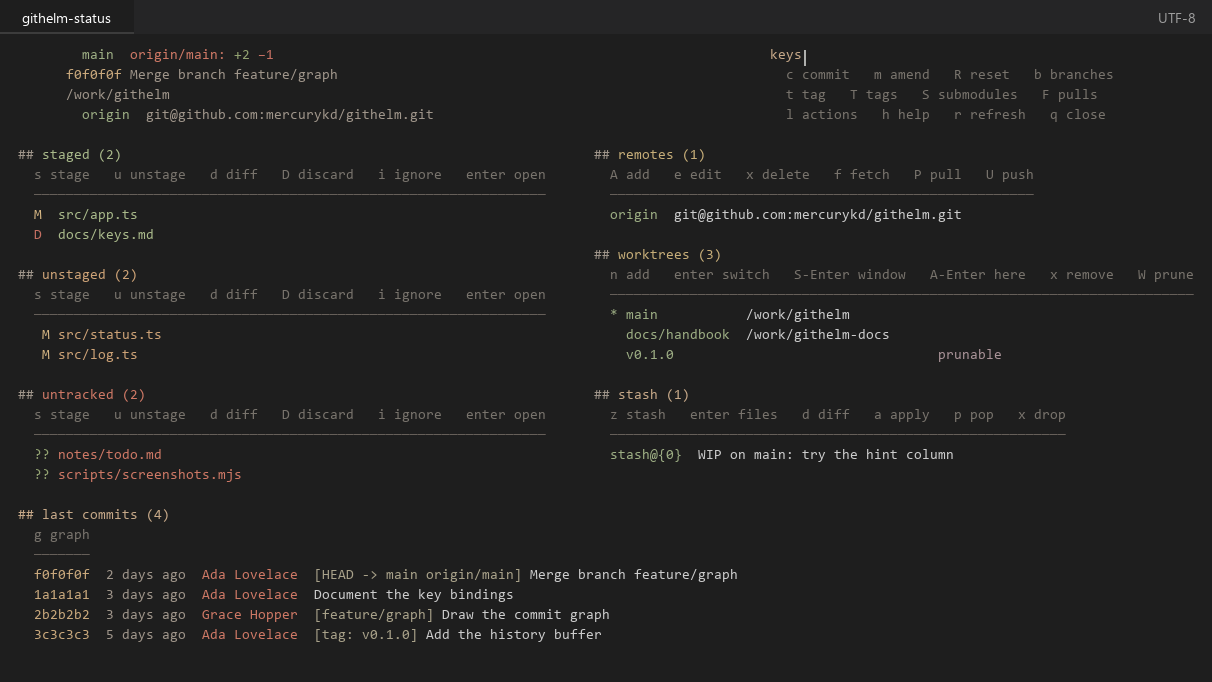
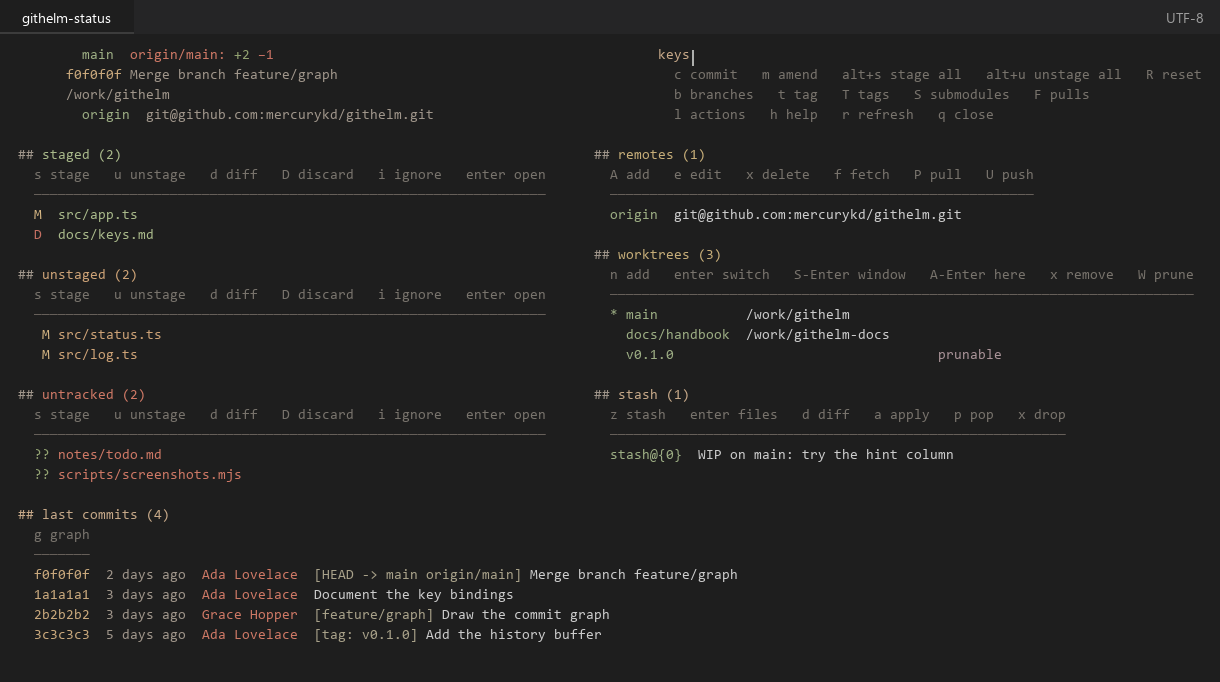
feat: add stage all and unstage all functionality with keyboard shortcuts

diff --git a/src/extension.ts b/src/extension.ts
@@ -29,7 +29,7 @@ import {
 import type { ResetMode } from './git/ops';
 import { findRepoRoot, initRepository } from './git/repo';
 import { amendCommit, createFixupCommit, hasStagedChanges, headMessage, parentOf } from './git/rewrite';
-import { addIntentToAdd, PatchApplyError, stageFiles, unstageFiles } from './git/stage';
+import { addIntentToAdd, PatchApplyError, stageAll, stageFiles, unstageAll, unstageFiles } from './git/stage';
 import { applyStash, dropStash, planStash, popStash, pushStash, showStash, stashFileDiff, StashOptions } from './git/stash';
 import { entriesOf, readStatus } from './git/status';
 import { createTag, deleteRemoteTag, deleteTag, moveTag, pushTag, remoteTag } from './git/tags';
@@ -613,6 +613,56 @@ export function activate(context: vscode.ExtensionContext): void {
     await unstageFiles(state.repoPath, paths);
     await statusBuffer.refresh(editor.document.uri, editor.selection.active.line);
     notify(t('msg.unstagedCount', { count: paths.length }));
+  });
+
+  // `alt+s` and `alt+u` are the same two operations for the whole screen, without
+  // caring where the cursor is: the pair `s`/`u` next to them stays per file.
+  register('githelm.status.stageAll', async () => {
+    const editor = statusEditor();
+    if (!editor) {
+      return;
+    }
+    const state = statusBuffer.stateFor(editor.document.uri);
+    if (!state) {
+      return;
+    }
+    const pending = state.status.entries.filter((entry) => entry.section !== 'staged');
+    if (pending.length === 0) {
+      notify(t('msg.alreadyStaged'));
+      return;
+    }
+    if (pending.some((entry) => entry.section === 'conflict')) {
+      const confirmed = await vscode.window.showWarningMessage(
+        t('msg.conflictStage'),
+        { modal: true },
+        t('action.stage')
+      );
+      if (confirmed !== t('action.stage')) {
+        return;
+      }
+    }
+    await stageAll(state.repoPath);
+    await statusBuffer.refresh(editor.document.uri, editor.selection.active.line);
+    notify(t('msg.stagedCount', { count: pending.length }));
+  });
+
+  register('githelm.status.unstageAll', async () => {
+    const editor = statusEditor();
+    if (!editor) {
+      return;
+    }
+    const state = statusBuffer.stateFor(editor.document.uri);
+    if (!state) {
+      return;
+    }
+    const staged = entriesOf(state.status, 'staged');
+    if (staged.length === 0) {
+      notify(t('msg.nothingToUnstage'));
+      return;
+    }
+    await unstageAll(state.repoPath);
+    await statusBuffer.refresh(editor.document.uri, editor.selection.active.line);
+    notify(t('msg.unstagedCount', { count: staged.length }));
   });
 
   register('githelm.status.ignore', async () => {

diff --git a/test/stage.test.ts b/test/stage.test.ts
@@ -1,9 +1,11 @@
 import assert from 'node:assert/strict';
+import fs from 'node:fs';
+import path from 'node:path';
 import { afterEach, describe, it } from 'node:test';
 import { diffArgs, parseDiff } from '../src/git/diff';
 import { git } from '../src/git/exec';
 import { buildPatch } from '../src/git/patch';
-import { addIntentToAdd, applyPatchToIndex, stageFile, stageFiles, unstageFile, unstageFiles } from '../src/git/stage';
+import { addIntentToAdd, applyPatchToIndex, stageAll, stageFile, stageFiles, unstageAll, unstageFile, unstageFiles } from '../src/git/stage';
 import { createTempRepo, TempRepo } from './helpers/tempRepo';
 
 let repo: TempRepo | undefined;
@@ -186,5 +188,47 @@ describe('stash quick peek', () => {
     } finally {
       repo.dispose();
     }
+  });
+});
+
+describe('stage all and unstage all', () => {
+  it('stages every change, deletions included, and takes them all back', async () => {
+    repo = createTempRepo({
+      commits: [{ 'keep.txt': 'keep\n', 'change.txt': 'old\n', 'gone.txt': 'bye\n' }],
+    });
+    const repoPath = repo.dir;
+    repo.write('change.txt', 'new\n');
+    repo.write('added.txt', 'fresh\n');
+    fs.rmSync(path.join(repoPath, 'gone.txt'));
+
+    await stageAll(repoPath);
+    const staged = repo.git('diff', '--cached', '--name-status').trim().split('\n').sort();
+    assert.deepEqual(staged, ['A\tadded.txt', 'D\tgone.txt', 'M\tchange.txt']);
+
+    await unstageAll(repoPath);
+    assert.equal(repo.git('diff', '--cached', '--name-status').trim(), '', 'the index is back at HEAD');
+    assert.equal(repo.read('change.txt'), 'new\n', 'the working tree keeps its edit');
+    assert.ok(fs.existsSync(path.join(repoPath, 'added.txt')), 'and keeps the new file');
+    assert.ok(!fs.existsSync(path.join(repoPath, 'gone.txt')), 'and keeps the deletion');
+  });
+
+  it('works in a repository that has no commit yet', async () => {
+    // There is no HEAD to reset to, so the index has to be emptied directly.
+    repo = createTempRepo();
+    const repoPath = repo.dir;
+    repo.write('a.txt', 'one\n');
+    repo.write('b.txt', 'two\n');
+
+    await stageAll(repoPath);
+    assert.deepEqual(
+      repo.git('diff', '--cached', '--name-only').trim().split('\n').sort(),
+      ['a.txt', 'b.txt'],
+      'both files went in'
+    );
+
+    await unstageAll(repoPath);
+    assert.equal(repo.git('diff', '--cached', '--name-only').trim(), '', 'nothing is left in the index');
+    assert.deepEqual(repo.git('status', '--porcelain').trim().split('\n').sort(), ['?? a.txt', '?? b.txt']);
+    assert.equal(repo.read('a.txt'), 'one\n', 'the files themselves are untouched');
   });
 });

diff --git a/src/views/statusRender.ts b/src/views/statusRender.ts
@@ -7,7 +7,7 @@ import type { LfsFile } from '../git/lfs';
 import type { Submodule } from '../git/submodules';
 import { samePath, WorktreeEntry } from '../git/worktree';
 import { Span } from '../util/span';
-import { hintColumn, hintEntries, keySegments, mergeColumns } from './columns';
+import { hintColumn, hintEntries, keySegments, mergeColumns, statusHintColumn } from './columns';
 
 export type BufferSection = StatusSection | 'stash' | 'remotes' | 'worktrees' | 'init';
 
@@ -325,11 +325,14 @@ export function renderStatus(
     lines.push('');
   }
 
-  // The column comes from `githelm.ui.hintColumn` (see columns.ts), so every
-  // screen aligns its hints at the same place.
+  // The column comes from `columns.ts`, so every screen aligns its hints at the
+  // same place. The status list of keys is the longest one in the extension, so it
+  // sits a little left of the shared column — otherwise the tail of the hints falls
+  // off a normal window.
   const merged = mergeColumns(
     lines,
-    hintEntries(t('hints.global'), t('status.keysHeader'))
+    hintEntries(t('hints.global'), t('status.keysHeader')),
+    statusHintColumn()
   );
   for (const span of merged.spans) {
     spans.push(span);
@@ -350,7 +353,11 @@ function pushHint(lines: string[], spans: Span[], text: string): void {
   spans.push({ line: lines.length - 1, start: 2, end: rule.length, kind: 'rule' });
 }
 
-/** The hairline stops before the hint column, so merging never clips it. */
+/**
+ * The hairline stops before the shared column, so it never runs into a right-hand
+ * block. It follows the hint text, not the key column: the inline hints sit far
+ * below the keys, and cutting the rule short of its own text looks broken.
+ */
 function ruleWidth(hintLength: number): number {
   return Math.max(1, Math.min(hintLength, hintColumn() - 2));
 }
@@ -630,7 +637,11 @@ export function renderUninitialized(folderPath: string): RenderedStatus {
   addTarget(targets, cells, actionLine + 1, { kind: 'init', section: 'init' });
   lines.push('');
 
-  const merged = mergeColumns(lines, hintEntries(t('hints.global'), t('status.keysHeader')));
+  const merged = mergeColumns(
+    lines,
+    hintEntries(t('hints.global'), t('status.keysHeader')),
+    statusHintColumn()
+  );
   for (const span of merged.spans) {
     spans.push(span);
   }

diff --git a/test/statusRender.test.ts b/test/statusRender.test.ts
@@ -1,5 +1,6 @@
 import assert from 'node:assert/strict';
 import { describe, it } from 'node:test';
+import { t } from '../src/i18n';
 import { RepoStatus } from '../src/git/status';
 import { WorktreeEntry } from '../src/git/worktree';
 import { RenderedStatus, renderStatus, renderUninitialized, resolveSelections, resolveTargets, StatusExtras, StatusTarget, targetAtCell } from '../src/views/statusRender';
@@ -736,17 +737,21 @@ describe('status layout', () => {
     commits: [{ shortSha: 'abc1234', date: '2026-11-14 20:11', author: 'me', subject: 'first' }],
   };
 
-  it('packs the global keys four to a line, three lines in all', () => {
+  it('packs the global keys into three lines without losing one', () => {
     const lines = renderStatus('/repo', STATUS, layoutExtras).text.split('\n');
     const column = lines[0].indexOf('keys');
     assert.ok(column > 0, 'the key column has its header on the first line');
-    assert.ok(
-      lines[1].includes('c commit') && lines[1].includes('m amend') && lines[1].includes('R reset') && lines[1].includes('b branches'),
-      'four keys on the first hint line'
-    );
-    assert.ok(lines[2].includes('t tag') && lines[2].includes('T tags') && lines[2].includes('S submodules') && lines[2].includes('F pulls'));
-    assert.ok(lines[3].includes('l actions') && lines[3].includes('h help') && lines[3].includes('r refresh') && lines[3].includes('q close'));
-    assert.equal(lines[4].includes('c commit'), false, 'and nothing after the third line');
+
+    // The packing follows the list: three lines tall, the keys spread evenly.
+    const keys = t('hints.global').split(/\s{3,}/);
+    const perLine = Math.max(2, Math.ceil(keys.length / 3));
+    const packed = [1, 2, 3].map((line) => lines[line].slice(column).trim());
+    packed.forEach((hint, index) => {
+      const shown = hint.length > 0 ? hint.split(/\s{3,}/) : [];
+      assert.equal(shown.length, Math.min(perLine, keys.length - index * perLine), `line ${index + 1} holds its share`);
+    });
+    assert.deepEqual(packed.join('   ').split(/\s{3,}/), keys, 'every key of the hint line is on screen, in order');
+    assert.equal(lines[4].slice(column).includes(keys[0]), false, 'and nothing after the third line');
   });
 
   it('leaves one blank row between the blocks of the column, as on the file side', () => {

diff --git a/src/i18n/ru.ts b/src/i18n/ru.ts
@@ -35,7 +35,7 @@ export const ru: Record<MessageKey, string> = {
 'hints.files': 's stage   u unstage   d diff   D отменить   i в .gitignore   enter открыть',
 'hints.remotes': 'A добавить   e изменить   x удалить   f fetch   P pull   U push',
   'hints.worktrees': 'n добавить   enter перейти   S-Enter окно   A-Enter сюда   x удалить   W prune',
-  'hints.global': 'c коммит   m amend   R reset   b ветки   t тег   T теги   S субмодули   F PR   l лог действий   h помощь   r обновить   q закрыть',
+  'hints.global': 'c коммит   m amend   alt+s добавить всё   alt+u снять всё   R reset   b ветки   t тег   T теги   S субмодули   F PR   l лог действий   h помощь   r обновить   q закрыть',
   'hints.recent': 'l лог действий',
   'hints.stash': 'z stash   enter файлы   d diff   a применить   p pop   x удалить',
   'hints.commits': 'g граф',
@@ -216,6 +216,7 @@ export const ru: Record<MessageKey, string> = {
   'msg.cursorNotEntry': 'Курсор не на строке записи.',
   'msg.alreadyStaged': 'Эти файлы уже в индексе.',
   'msg.untrackedUnstage': 'Untracked-файлы нечего убирать из индекса.',
+  'msg.nothingToUnstage': 'Снимать нечего — индекс уже пуст.',
   'msg.stagedCount': 'Staged: {count}',
   'msg.discardedCount': 'Изменения отменены: {count}',
   'confirm.discard': 'Отменить изменения в {files}?',

diff --git a/src/i18n/zh.ts b/src/i18n/zh.ts
@@ -35,7 +35,7 @@ export const zh: Record<MessageKey, string> = {
 'hints.files': 's 暂存   u 取消暂存   d 差异   D 放弃修改   i 忽略   enter 打开',
 'hints.remotes': 'A 添加   e 修改   x 删除   f fetch   P pull   U push',
   'hints.worktrees': 'n 添加   enter 切换   S-Enter 新窗口   A-Enter 此处   x 删除   W prune',
-  'hints.global': 'c 提交   m 修补   R reset   b 分支   t 标签   T 标签页   S 子模块   F PR   l 操作日志   h 帮助   r 刷新   q 关闭',
+  'hints.global': 'c 提交   m 修补   alt+s 全部暂存   alt+u 全部取消暂存   R reset   b 分支   t 标签   T 标签页   S 子模块   F PR   l 操作日志   h 帮助   r 刷新   q 关闭',
   'hints.recent': 'l 操作日志',
   'hints.stash': 'z stash   enter 文件   d 差异   a 应用   p 弹出   x 删除',
   'hints.commits': 'g 图形',
@@ -216,6 +216,7 @@ export const zh: Record<MessageKey, string> = {
   'msg.cursorNotEntry': '光标不在条目行上。',
   'msg.alreadyStaged': '这些文件已在暂存区。',
   'msg.untrackedUnstage': '未跟踪文件无需从暂存区移除。',
+  'msg.nothingToUnstage': '没有已暂存的内容 —— 索引已经是空的。',
   'msg.stagedCount': '已暂存：{count}',
   'msg.discardedCount': '已放弃修改：{count}',
   'confirm.discard': '放弃 {files} 的修改？',

diff --git a/src/git/stage.ts b/src/git/stage.ts
@@ -69,6 +69,31 @@ export async function unstageFile(repoPath: string, filePath: string): Promise<v
   await unstageFiles(repoPath, [filePath]);
 }
 
+/** `git add -A`: every change in the work tree, deletions included. */
+export async function stageAll(repoPath: string): Promise<void> {
+  const result = await git(repoPath, ['add', '-A']);
+  if (result.code !== 0) {
+    throw new Error(result.stderr.trim() || `git add -A failed (${result.code})`);
+  }
+}
+
+/**
+ * The way back: nothing stays in the index, the work tree keeps its files. A
+ * repository without a commit has no `HEAD` to reset to, so its index is emptied
+ * directly — the same fallback `unstageFiles` uses for a single path.
+ */
+export async function unstageAll(repoPath: string): Promise<void> {
+  const head = await git(repoPath, ['rev-parse', '--verify', '--quiet', 'HEAD']);
+  const args =
+    head.code === 0
+      ? ['reset', '--quiet', 'HEAD']
+      : ['rm', '--cached', '--quiet', '--ignore-unmatch', '-r', '--', '.'];
+  const result = await git(repoPath, args);
+  if (result.code !== 0) {
+    throw new Error(result.stderr.trim() || `git ${args[0]} failed (${result.code})`);
+  }
+}
+
 export async function unstageFiles(repoPath: string, paths: string[]): Promise<void> {
   if (paths.length === 0) {
     return;

diff --git a/src/i18n/en.ts b/src/i18n/en.ts
@@ -38,7 +38,7 @@ export const en = {
 'hints.files': 's stage   u unstage   d diff   D discard   i ignore   enter open',
 'hints.remotes': 'A add   e edit   x delete   f fetch   P pull   U push',
   'hints.worktrees': 'n add   enter switch   S-Enter window   A-Enter here   x remove   W prune',
-  'hints.global': 'c commit   m amend   R reset   b branches   t tag   T tags   S submodules   F pulls   l actions   h help   r refresh   q close',
+  'hints.global': 'c commit   m amend   alt+s stage all   alt+u unstage all   R reset   b branches   t tag   T tags   S submodules   F pulls   l actions   h help   r refresh   q close',
   'hints.recent': 'l action log',
   'hints.stash': 'z stash   enter files   d diff   a apply   p pop   x drop',
   'hints.commits': 'g graph',
@@ -219,6 +219,7 @@ export const en = {
   'msg.cursorNotEntry': 'Cursor is not on an entry.',
   'msg.alreadyStaged': 'Those files are already staged.',
   'msg.untrackedUnstage': 'Untracked files have nothing to unstage.',
+  'msg.nothingToUnstage': 'Nothing is staged — the index is already empty.',
   'msg.stagedCount': 'Staged: {count}',
   'msg.discardedCount': 'Discarded: {count}',
   'confirm.discard': 'Discard changes of {files}?',

diff --git a/src/views/columns.ts b/src/views/columns.ts
@@ -21,6 +21,15 @@ export function narrowHintColumn(): number {
   return Math.max(40, Math.round(currentColumn * 0.55));
 }
 
+/**
+ * Column for the status screen. Its key list is the longest one in the extension,
+ * so it sits a little left of the shared column — enough for the hints to stay on
+ * screen, while the block titles and the file keys on the left keep their room.
+ */
+export function statusHintColumn(): number {
+  return Math.round(currentColumn * 0.85);
+}
+
 export interface ColumnEntry {
   text: string;
   kind: SpanKind;

diff --git a/README.ru.md b/README.ru.md
@@ -70,7 +70,7 @@ mklink /J "%USERPROFILE%\.vscode\extensions\mercurykd.githelm" "D:\path\to\githe
 
 ## Клавиши
 
-Колонка `keys` на каждом экране — три строки и начинается под заголовком: длинные списки клавиш укладываются в эту высоту, а не растягивают колонку. На экранах-списках — теги, ветки и граф — она стоит ближе к тексту, чтобы за короткими строками не оставалось широкого пустого поля; на графе столько же места отдано блоку фильтров, поэтому он тоже начинается с шестой строки.
+Колонка `keys` на каждом экране — три строки и начинается под заголовком: длинные списки клавиш укладываются в эту высоту, а не растягивают колонку. На экране статуса, где список клавиш самый длинный, она сдвинута чуть левее, а на списочных экранах — теги, ветки и граф — ближе к тексту: так подсказки умещаются на экране, а за короткими строками не остаётся широкого пустого поля; на графе столько же места отдано блоку фильтров, поэтому он тоже начинается с шестой строки.
 
 
 ### Статус — `alt+g`
@@ -79,6 +79,8 @@ mklink /J "%USERPROFILE%\.vscode\extensions\mercurykd.githelm" "D:\path\to\githe
 | --- | --- |
 | `s` | stage: файл под курсором · вся секция, если курсор на заголовке · все файлы из выделения |
 | `u` | unstage — те же три режима |
+| `alt+s` | добавить всё: весь репозиторий, включая удаления |
+| `alt+u` | снять с индекса всё, что там есть |
 | `d` | diff файла под курсором — на заголовке секции диффится вся секция, каждый дополнительный курсор добавляет свой файл |
 | `D` | отменить строку под курсором, слой за слоем (те же правила по курсору, что у `d`, но сначала подтверждение): **staged** возвращает индекс к HEAD, **unstaged** восстанавливает рабочую копию из индекса, **новый** файл удаляется с диска, **конфликт** получает версию из HEAD. Один и тот же файл может быть в нескольких секциях — каждая строка отменяется отдельно |
 | `i` | добавить в `.gitignore`: файл под курсором · выделенные файлы · вся секция на заголовке (уже отслеживаемые не пишутся, а показываются в уведомлении — им нужен `git rm --cached`) |
@@ -286,7 +288,7 @@ npm run typecheck    # tsc --noEmit
 npm test             # сборка расширения и тестов, проверка манифеста, запуск набора
 ```
 
-`npm test` — это **418 тестов** (413 проходят, 5 пропущены) на настоящих временных git-репозиториях: бинарник `git` не мокается. Та же команда запускает `npm run validate` — она падает, если клавиша или пункт меню ссылаются на неизвестную команду, либо если отсутствуют `main`, иконка, шимы, `CHANGELOG.md` или один из README, либо в README пропала ссылка на другой язык.
+`npm test` — это **420 тестов** (415 проходят, 5 пропущены) на настоящих временных git-репозиториях: бинарник `git` не мокается. Та же команда запускает `npm run validate` — она падает, если клавиша или пункт меню ссылаются на неизвестную команду, либо если отсутствуют `main`, иконка, шимы, `CHANGELOG.md` или один из README, либо в README пропала ссылка на другой язык.
 
 Скриншоты в этом README — не снимки окна: `scripts/make-screenshots.mjs` спрашивает настоящие `renderStatus` и `renderLog` про текст и спаны, а `scripts/make-screenshots.py` рисует их значениями из `contributes.colors` и картой спанов в `views/highlight.ts`. Руками нарисована только рамка — полоса вкладки и каретка, — поэтому картинка не может показать раскладку или цвет, которых буферы на самом деле не выдают.
 

diff --git a/README.md b/README.md
@@ -70,7 +70,7 @@ The folder name has to be `<publisher>.<name>`, so it matches the manifest — a
 
 ## Keys
 
-The `keys` column of every screen is three lines tall and starts under the title: long hint lists are packed to fit that height instead of growing the column. The list screens — tags, branches and the history graph — keep it closer to the text, so short rows are not followed by a wide empty gutter; the history screen gives its filter block the same room, so it begins on the sixth line as well.
+The `keys` column of every screen is three lines tall and starts under the title: long hint lists are packed to fit that height instead of growing the column. The screen with the longest key list, the status screen, keeps it a little to the left of that column, and the list screens — tags, branches and the history graph — keep it closer still, so the hints stay on screen and short rows are not followed by a wide empty gutter; the history screen gives its filter block the same room, so it begins on the sixth line as well.
 
 
 ### Status — `alt+g`
@@ -79,6 +79,8 @@ The `keys` column of every screen is three lines tall and starts under the title
 | --- | --- |
 | `s` | stage: the file under the cursor · the whole section when the cursor is on a header · every file in the selection |
 | `u` | unstage — the same three modes |
+| `alt+s` | stage everything: the whole repository, deletions included |
+| `alt+u` | unstage everything that is in the index |
 | `d` | diff of the file under the cursor — a section header diffs the whole section, and every extra cursor adds its file |
 | `D` | discard the row under the cursor, one layer at a time (same cursor rules as `d`, and it asks first): a **staged** row puts the index back to HEAD, an **unstaged** row restores the working tree from the index, a **new** file is deleted from disk, a **conflict** keeps the HEAD version. The same file can sit in several sections at once — each row is discarded on its own |
 | `i` | add to `.gitignore`: file under the cursor · selected files · whole section on a header (tracked files are reported instead of written — they need `git rm --cached`) |
@@ -286,7 +288,7 @@ npm run typecheck    # tsc --noEmit
 npm test             # build the extension and the test tree, validate the manifest, run the suite
 ```
 
-`npm test` runs **418 tests** (413 passing, 5 skipped) directly against real temporary git repositories — the `git` binary is never mocked. The same command also runs `npm run validate`, which fails when a keybinding or a menu entry points at an unknown command, or when `main`, the icon, the shims, `CHANGELOG.md` or one of the READMEs is missing, or a README lost the link to another language.
+`npm test` runs **420 tests** (415 passing, 5 skipped) directly against real temporary git repositories — the `git` binary is never mocked. The same command also runs `npm run validate`, which fails when a keybinding or a menu entry points at an unknown command, or when `main`, the icon, the shims, `CHANGELOG.md` or one of the READMEs is missing, or a README lost the link to another language.
 
 The screenshots in this README are not captures of a window: `scripts/make-screenshots.mjs` asks the real `renderStatus` and `renderLog` for the text and the spans, and `scripts/make-screenshots.py` paints them with the values from `contributes.colors` and the span map in `views/highlight.ts`. Only the frame — the tab strip and the caret — is drawn by hand, so an image cannot show a layout or a colour the buffers do not actually produce.
 

diff --git a/README.zh.md b/README.zh.md
@@ -70,7 +70,7 @@ mklink /J "%USERPROFILE%\.vscode\extensions\mercurykd.githelm" "D:\path\to\githe
 
 ## 按键
 
-每个界面的 `keys` 列都是三行，并从标题下方开始：较长的按键列表会被压缩到这个高度，而不会把该列撑高。在列表界面（标签、分支、历史图）上它更靠近正文，短行之后不会留下大片空白；历史图同样为过滤块留出这些空间，因此过滤块也从第六行开始。
+每个界面的 `keys` 列都是三行，并从标题下方开始：较长的按键列表会被压缩到这个高度，而不会把该列撑高。按键列表最长的状态界面上它稍微左移，列表界面（标签、分支、历史图）上则更靠近正文：提示不会跑出屏幕，短行之后也不会留下大片空白；历史图同样为过滤块留出这些空间，因此过滤块也从第六行开始。
 
 
 ### 状态 —— `alt+g`
@@ -79,6 +79,8 @@ mklink /J "%USERPROFILE%\.vscode\extensions\mercurykd.githelm" "D:\path\to\githe
 | --- | --- |
 | `s` | 暂存：光标处的文件 · 光标在标题上时整个区块 · 选中范围内的所有文件 |
 | `u` | 取消暂存 —— 同样三种模式 |
+| `alt+s` | 全部暂存：整个仓库，包括删除 |
+| `alt+u` | 全部取消暂存：把索引里的所有内容移出 |
 | `d` | 光标处文件的 diff — 在分区标题上则取整个分区，每个额外光标再加一个文件 |
 | `D` | 放弃光标处的那一行，按层处理（光标规则与 `d` 相同，且会先确认）：**已暂存**行把索引恢复到 HEAD，**未暂存**行从索引恢复工作区，**新文件**从磁盘删除，**冲突**采用 HEAD 版本。同一文件可能同时出现在多个分区 —— 每行各自独立处理 |
 | `i` | 加入 `.gitignore`：光标处的文件 · 选中的文件 · 光标在标题上时整个区块（已跟踪的文件只会被报告出来 —— 它们需要 `git rm --cached`） |
@@ -284,7 +286,7 @@ npm run typecheck    # tsc --noEmit
 npm test             # 构建扩展与测试树、校验清单、运行测试套件
 ```
 
-`npm test` 直接对真实的临时 git 仓库运行 **418 个测试**（413 通过，5 跳过）—— `git` 二进制从不被 mock。同一条命令还会运行 `npm run validate`：当某个按键或菜单项指向未知命令，或者缺少 `main`、图标、shim、`CHANGELOG.md`，或者某个 README 没有指向另外两份 README 的语言切换链接时，它会失败。
+`npm test` 直接对真实的临时 git 仓库运行 **420 个测试**（415 通过，5 跳过）—— `git` 二进制从不被 mock。同一条命令还会运行 `npm run validate`：当某个按键或菜单项指向未知命令，或者缺少 `main`、图标、shim、`CHANGELOG.md`，或者某个 README 没有指向另外两份 README 的语言切换链接时，它会失败。
 
 本 README 中的截图不是窗口截图：`scripts/make-screenshots.mjs` 向真实的 `renderStatus` 与 `renderLog` 索取文本和 span，`scripts/make-screenshots.py` 用 `contributes.colors` 的值和 `views/highlight.ts` 里的 span 映射把它们画出来。只有边框——标签条和光标——是手绘的，因此图片不可能展示缓冲区实际并不产生的布局或颜色。
 
